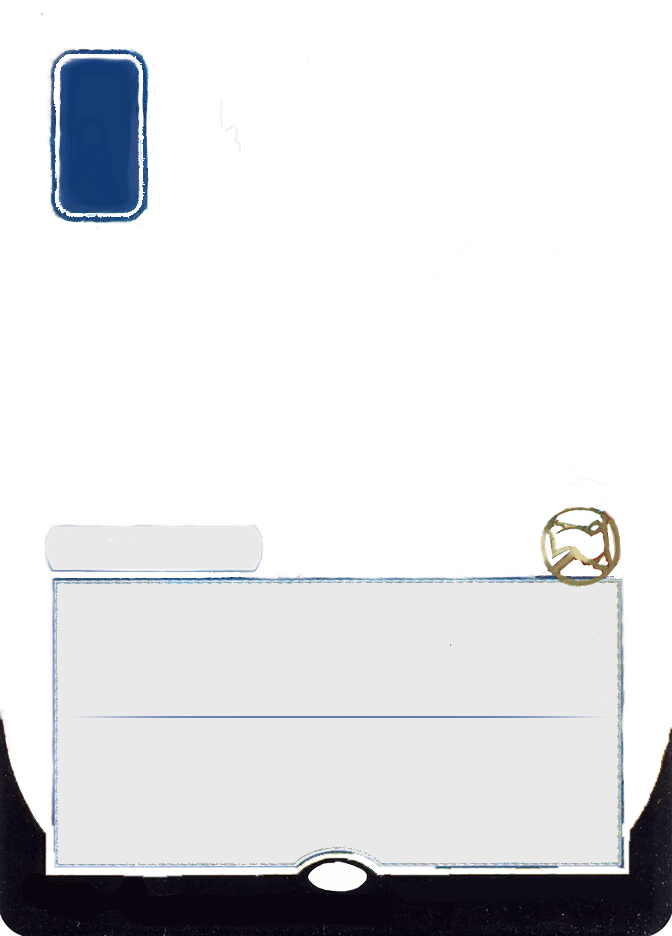
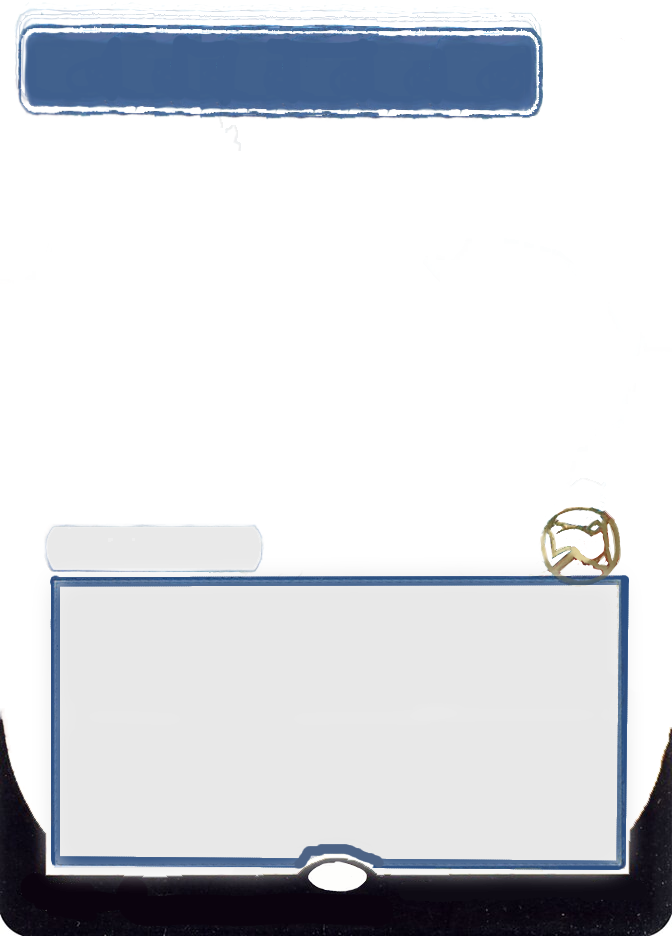
begins changing card data

Changed region(s): [[0.0, 0.0, 0.8125, 0.2479], [0.0625, 0.5887, 0.9688, 0.9605]]

diff --git a/client/src/PreviewPage/PreviewPage.tsx b/client/src/PreviewPage/PreviewPage.tsx
@@ -1,9 +1,7 @@
 import { useState } from 'react';
 import { getUrl } from '../utils/FetchUtils';
 import css from './PreviewPage.module.css'
-import  {GAME_BOARD, DECK_EDITOR, PREVIEW_PAGE} from 'common/Routes'
 import { AnyCardT } from 'common/types/game-data';
-import Card from '../CardTemplates/Card';
 import React from 'react';
 import ProjectBlueCard from '../CardTemplates/ProjectBlueCard';
 import Modal from 'react-modal';

diff --git a/client/src/game/board/cards/CardInstance.tsx b/client/src/game/board/cards/CardInstance.tsx
@@ -4,7 +4,7 @@ import React, { useCallback, useContext, useEffect, useMemo, useRef, useState } 
 import css from '../Board.module.css';
 import { StratagemCard } from "../../../CardTemplates/StratagemCard";
 import UnitCard from "../../../CardTemplates/Card";
-import { BoardContext } from "../BoardContext";
+import { BoardContext } from "../BoardContext"; 
 import Card from "../../../CardTemplates/Card";
 
 

diff --git a/client/src/CardTemplates/ProjectBlueCard.tsx b/client/src/CardTemplates/ProjectBlueCard.tsx
@@ -41,8 +41,6 @@ export default class ProjectBlueCard extends React.Component<AnyCardT & {display
             costImage = <img className={css.costImage} src={`cost-${this.props.cost}.png`}></img>;
         }
 
-        
-
         let descriptionStyle: React.CSSProperties|undefined;
         if (this.props.description.length > 150) {
             descriptionStyle = {top: "225px"}

diff --git a/client/src/CardTemplates/ProjectBlueCard.module.css b/client/src/CardTemplates/ProjectBlueCard.module.css
@@ -171,7 +171,7 @@
     width: 197px;
     height: 54px;
     left: 23px;
-    top: 206px;
+    top: 209px;
     display: flex;
     align-items: center;
     justify-content: center;
